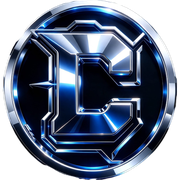
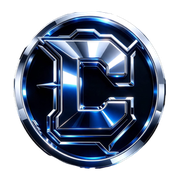
Remaster DC-LINUX site with supplied artwork (#16)

diff --git a/website/index.html b/website/index.html
@@ -19,7 +19,7 @@
     <div class="noise" aria-hidden="true"></div>
     <header class="site-header" id="inicio">
       <a class="brand" href="#inicio" aria-label="DC-LINUX, inicio">
-        <img class="brand-logo" src="assets/dc-linux-logo.webp" alt="Logo de DC-LINUX" />
+        <img class="brand-logo" src="assets/lucy-dc-emblem.webp" alt="Emblema DC suministrado por Lucy" />
         <span class="brand-copy"><strong>DC-LINUX</strong><small>EDICIÓN LIVE</small></span>
       </a>
       <div class="site-clock" aria-label="Hora local en este dispositivo">
@@ -46,6 +46,7 @@
       <section class="hero section-pad" aria-labelledby="hero-title">
         <div class="hero-glow hero-glow-one" aria-hidden="true"></div>
         <div class="hero-glow hero-glow-two" aria-hidden="true"></div>
+        <figure class="hero-wallpaper" aria-hidden="true"><img src="assets/lucy-deep-blue-wallpaper.webp" alt="" fetchpriority="high" /></figure>
         <div class="hero-content reveal">
           <p class="eyebrow"><span class="eyebrow-dot"></span> DEBIAN 13 · TRIXIE · XFCE</p>
           <h1 id="hero-title">Tu Linux.<br /><span>A tu manera.</span></h1>
@@ -121,6 +122,10 @@
           <figure class="gallery-main reveal"><img src="assets/nucleo-desktop-preview.png" alt="Vista previa del escritorio Núcleo XFCE de DC-LINUX" /><figcaption><span>VISTA PREVIA / 01</span><b>NÚCLEO XFCE</b><small>Escritorio XFCE de Núcleo Linux</small></figcaption></figure>
           <figure class="gallery-side reveal"><div class="gallery-side-art"><img src="assets/dc-linux-gallery-v2.webp" alt="Visual conceptual del escritorio DC-LINUX con cursor rojo y barra centrada" loading="lazy" decoding="async" /></div><figcaption><span>ATMÓSFERA / 02</span><b>DEEP BLUE CORE</b><small>Diseñada para enfocar</small></figcaption></figure>
         </div>
+        <figure class="gallery-wallpaper reveal">
+          <img src="assets/lucy-deep-blue-wallpaper.webp" alt="Fondo azul profundo suministrado por Lucy, con el emblema DC al centro superior" loading="lazy" decoding="async" />
+          <figcaption><span>FONDO SUMINISTRADO / 03</span><strong>Deep Blue · el escritorio que inspira esta edición</strong><small>Mostrado junto al escritorio y al arte original de DC-LINUX.</small></figcaption>
+        </figure>
       </section>
 
 
@@ -210,6 +215,7 @@
                   <a class="guide-secondary-link" href="https://github.com/DebianS4/DC-LINUXOS/releases/tag/rpi4-desktop-2026.11.04" target="_blank" rel="noopener noreferrer">Ver release y notas <span aria-hidden="true">↗</span></a>
                 </div>
               </div>
+              <p class="pi4-hash"><span>SHA-256 publicado para la imagen .img.xz</span><code>6e489d859f8d3b99b443d33eb417461f3d50c216974d5c201c54701fb71479b5</code></p>
               <p class="guide-warning pi4-verification-note">Verifica el SHA-256 publicado antes de grabar. Escribir sobrescribe la microSD elegida; confirma el destino antes de continuar.</p>
             </div>
             <div class="pi4-card-media" aria-label="Vistas de la edición Raspberry Pi 4">
@@ -251,6 +257,10 @@
           </div>
           <p>Imágenes mínimas para Raspberry Pi y un panel de diagnóstico OBD-II de DC Laboratory.</p>
         </div>
+        <div class="rpi-artwork-pair reveal" aria-label="Arte suministrado y visual original para Raspberry Pi">
+          <figure class="rpi-artwork-supplied"><img src="assets/lucy-raspberry-pi-neon.webp" alt="Ilustración luminosa de Raspberry Pi suministrada por Lucy" loading="lazy" decoding="async" /><figcaption><span>ARTE SUMINISTRADO / 01</span>RASPBERRY PI · NEON BLUE</figcaption></figure>
+          <figure class="rpi-artwork-original"><img src="assets/rpi-pi45-download-v2.webp" alt="Visual original de DC-LINUX para las ediciones Raspberry Pi 4 y Pi 5" loading="lazy" decoding="async" /><figcaption><span>VISUAL ORIGINAL / 02</span>PLATAFORMA ARM64</figcaption></figure>
+        </div>
         <figure class="rpi-hero reveal">
           <img src="assets/rpi-zero-hero-v2.webp" alt="Diseño visual de un panel de diagnóstico OBD-II dentro de un vehículo" loading="lazy" decoding="async" />
           <span class="rpi-hero-badge">DC LABORATORY / OBD-II</span>
@@ -278,6 +288,7 @@
               <code>DC-ECU-PiZeroW-Lite.img.xz</code>
               <a class="button button-primary obd-download-main download-pulse" href="https://github.com/DebianS4/DC-LINUXOS/releases/download/dcecu-pi-zero-w-lite-v1.0.0/DC-ECU-PiZeroW-Lite.img.xz" target="_blank" rel="noopener noreferrer">Descargar imagen OBD-II (.img.xz) <span aria-hidden="true">↓</span></a>
               <a class="obd-checksum-link" href="https://github.com/DebianS4/DC-LINUXOS/releases/download/dcecu-pi-zero-w-lite-v1.0.0/DC-ECU-PiZeroW-Lite.img.xz.sha256" target="_blank" rel="noopener noreferrer">Descargar checksum SHA-256 (.sha256) <span aria-hidden="true">↗</span></a>
+              <p class="obd-hash"><span>SHA-256 publicado</span><code>18e7ea4f0c42fb0a8c3e1407da76d986cb5365899075b66d7e00cf16f94e5499</code></p>
             </div>
           </div>
         </article>
@@ -353,7 +364,7 @@ xz -dk DC-LINUX-Pi4-Pi5-Minimal.img.xz</code></pre></li>
       </section>
     </main>
 
-    <footer class="site-footer section-pad"><a class="brand" href="#inicio"><img class="brand-logo" src="assets/dc-linux-logo.webp" alt="Logo de DC-LINUX" /><span class="brand-copy"><strong>DC-LINUX</strong><small>EDICIÓN LIVE</small></span></a><p>Construido sobre Debian. Diseñado para avanzar.</p><div class="footer-meta"><span>© <span id="year"></span> DC-LINUX</span><span>AMD64 / RASPBERRY PI / DC LAB</span></div></footer>
+    <footer class="site-footer section-pad"><a class="brand" href="#inicio"><img class="brand-logo" src="assets/lucy-dc-emblem.webp" alt="Emblema DC suministrado por Lucy" /><span class="brand-copy"><strong>DC-LINUX</strong><small>EDICIÓN LIVE</small></span></a><p>Construido sobre Debian. Diseñado para avanzar.</p><div class="footer-meta"><span>© <span id="year"></span> DC-LINUX</span><span>AMD64 / RASPBERRY PI / DC LAB</span></div></footer>
     <script src="script.js"></script>
   </body>
 </html>

diff --git a/website/styles.css b/website/styles.css
@@ -886,3 +886,153 @@ section[id] { scroll-margin-top: 92px; }
   .download-security-badges { grid-template-columns: 1fr; gap: 7px; }
   .security-badge { min-height: 61px; }
 }
+
+
+/* Remasterización final: materiales de Lucy integrados con la identidad original. */
+.site-header {
+  border-bottom-color: rgba(137, 202, 255, .2);
+  background: rgba(3, 10, 23, .86);
+}
+.brand-logo {
+  width: 42px;
+  height: 42px;
+  flex-basis: 42px;
+  object-fit: contain;
+  border-radius: 50%;
+  border-color: rgba(139, 202, 255, .62);
+  background: #02050b;
+  box-shadow: 0 0 24px rgba(50, 151, 255, .34), inset 0 0 0 2px rgba(2, 8, 18, .65);
+}
+.hero {
+  isolation: isolate;
+  background:
+    radial-gradient(ellipse at 82% 24%, rgba(21, 120, 224, .28), transparent 34%),
+    linear-gradient(112deg, rgba(3, 9, 19, .95) 0%, rgba(4, 17, 36, .79) 54%, rgba(2, 10, 23, .9) 100%),
+    linear-gradient(119deg, #050912 0%, #071426 52%, #071c39 100%);
+}
+.hero-wallpaper {
+  position: absolute;
+  z-index: 0;
+  inset: 0;
+  margin: 0;
+  overflow: hidden;
+  pointer-events: none;
+}
+.hero-wallpaper img {
+  position: absolute;
+  inset: 0;
+  width: 100%;
+  height: 100%;
+  object-fit: cover;
+  object-position: center 43%;
+  opacity: .24;
+  mix-blend-mode: screen;
+  mask-image: linear-gradient(90deg, transparent 0%, rgba(0, 0, 0, .32) 24%, #000 72%);
+}
+.hero-content, .hero-art { z-index: 1; }
+.hero-display { border-color: rgba(124, 202, 255, .48); }
+.hero-display > img { border-color: rgba(116, 195, 255, .4); }
+.gallery-wallpaper {
+  display: grid;
+  grid-template-columns: minmax(0, 1.2fr) minmax(240px, .8fr);
+  align-items: center;
+  gap: clamp(20px, 4vw, 58px);
+  margin: 32px 0 0;
+  padding: clamp(11px, 1.8vw, 18px);
+  border: 1px solid rgba(126, 192, 255, .28);
+  border-radius: 8px;
+  background: linear-gradient(125deg, rgba(8, 25, 48, .96), rgba(3, 8, 16, .96));
+  box-shadow: 0 20px 56px rgba(0, 0, 0, .27);
+}
+.gallery-wallpaper > img {
+  width: 100%;
+  aspect-ratio: 1080 / 631;
+  object-fit: contain;
+  border: 1px solid rgba(114, 193, 255, .24);
+  border-radius: 4px;
+  background: #06152b;
+}
+.gallery-wallpaper figcaption { display: grid; gap: 9px; }
+.gallery-wallpaper figcaption span {
+  color: #86d9ff;
+  font: 8px/1.45 var(--mono);
+  letter-spacing: .13em;
+}
+.gallery-wallpaper figcaption strong {
+  color: var(--white);
+  font: 500 clamp(20px, 2.7vw, 31px)/1.12 var(--display);
+  letter-spacing: -.04em;
+}
+.gallery-wallpaper figcaption small { color: var(--muted); font-size: 12px; line-height: 1.65; }
+.rpi-artwork-pair {
+  display: grid;
+  grid-template-columns: minmax(0, .8fr) minmax(0, 1.2fr);
+  gap: 14px;
+  margin: 0 0 22px;
+}
+.rpi-artwork-pair figure {
+  position: relative;
+  min-width: 0;
+  height: clamp(220px, 25vw, 340px);
+  margin: 0;
+  overflow: hidden;
+  border: 1px solid rgba(126, 192, 255, .3);
+  border-radius: 8px;
+  background: #030711;
+  box-shadow: 0 18px 48px rgba(0, 0, 0, .24);
+}
+.rpi-artwork-pair img { width: 100%; height: 100%; object-fit: cover; }
+.rpi-artwork-supplied img {
+  object-fit: contain;
+  padding: 10px;
+  background: radial-gradient(ellipse at 50% 45%, rgba(0, 37, 255, .25), transparent 67%), #02040b;
+}
+.rpi-artwork-pair figcaption {
+  position: absolute;
+  right: 9px;
+  bottom: 9px;
+  left: 9px;
+  display: grid;
+  gap: 4px;
+  padding: 8px 10px;
+  background: rgba(2, 7, 15, .86);
+  color: #dcecff;
+  font: 8px/1.45 var(--mono);
+  letter-spacing: .06em;
+}
+.rpi-artwork-pair figcaption span { color: #83d7ff; font-size: 7px; letter-spacing: .12em; }
+.pi4-hash, .obd-hash {
+  display: grid;
+  gap: 5px;
+  min-width: 0;
+  margin: 12px 0 0;
+  padding: 10px 12px;
+  background: rgba(3, 8, 16, .72);
+  overflow-wrap: anywhere;
+}
+.pi4-hash { border-left: 2px solid #ff6b84; }
+.pi4-hash span { color: #ff9cad; font: 600 8px/1.45 var(--mono); letter-spacing: .08em; }
+.pi4-hash code { color: #f1cbd2; font: 8px/1.55 var(--mono); overflow-wrap: anywhere; }
+.obd-hash { border-left: 2px solid #69e0b7; }
+.obd-hash span { color: #9cebd2; font: 600 8px/1.45 var(--mono); letter-spacing: .08em; }
+.obd-hash code { color: #c8f3e4; font: 8px/1.55 var(--mono); overflow-wrap: anywhere; }
+
+@media (max-width: 900px) {
+  .hero-wallpaper img { opacity: .18; object-position: 57% center; }
+  .rpi-artwork-pair { grid-template-columns: 1fr 1fr; }
+}
+@media (max-width: 650px) {
+  .brand-logo { width: 35px; height: 35px; flex-basis: 35px; }
+  .hero-wallpaper img {
+    opacity: .15;
+    object-position: 56% top;
+    mask-image: linear-gradient(180deg, #000 0%, rgba(0, 0, 0, .45) 58%, transparent 100%);
+  }
+  .gallery-wallpaper { grid-template-columns: 1fr; gap: 16px; margin-top: 24px; }
+  .gallery-wallpaper > img { aspect-ratio: 1080 / 631; }
+  .gallery-wallpaper figcaption { padding: 2px 3px 5px; }
+  .rpi-artwork-pair { grid-template-columns: 1fr; gap: 10px; margin-bottom: 17px; }
+  .rpi-artwork-pair figure { height: clamp(215px, 68vw, 280px); }
+  .pi4-hash, .obd-hash { padding: 9px 10px; }
+  .pi4-hash code, .obd-hash code { font-size: 7px; }
+}
